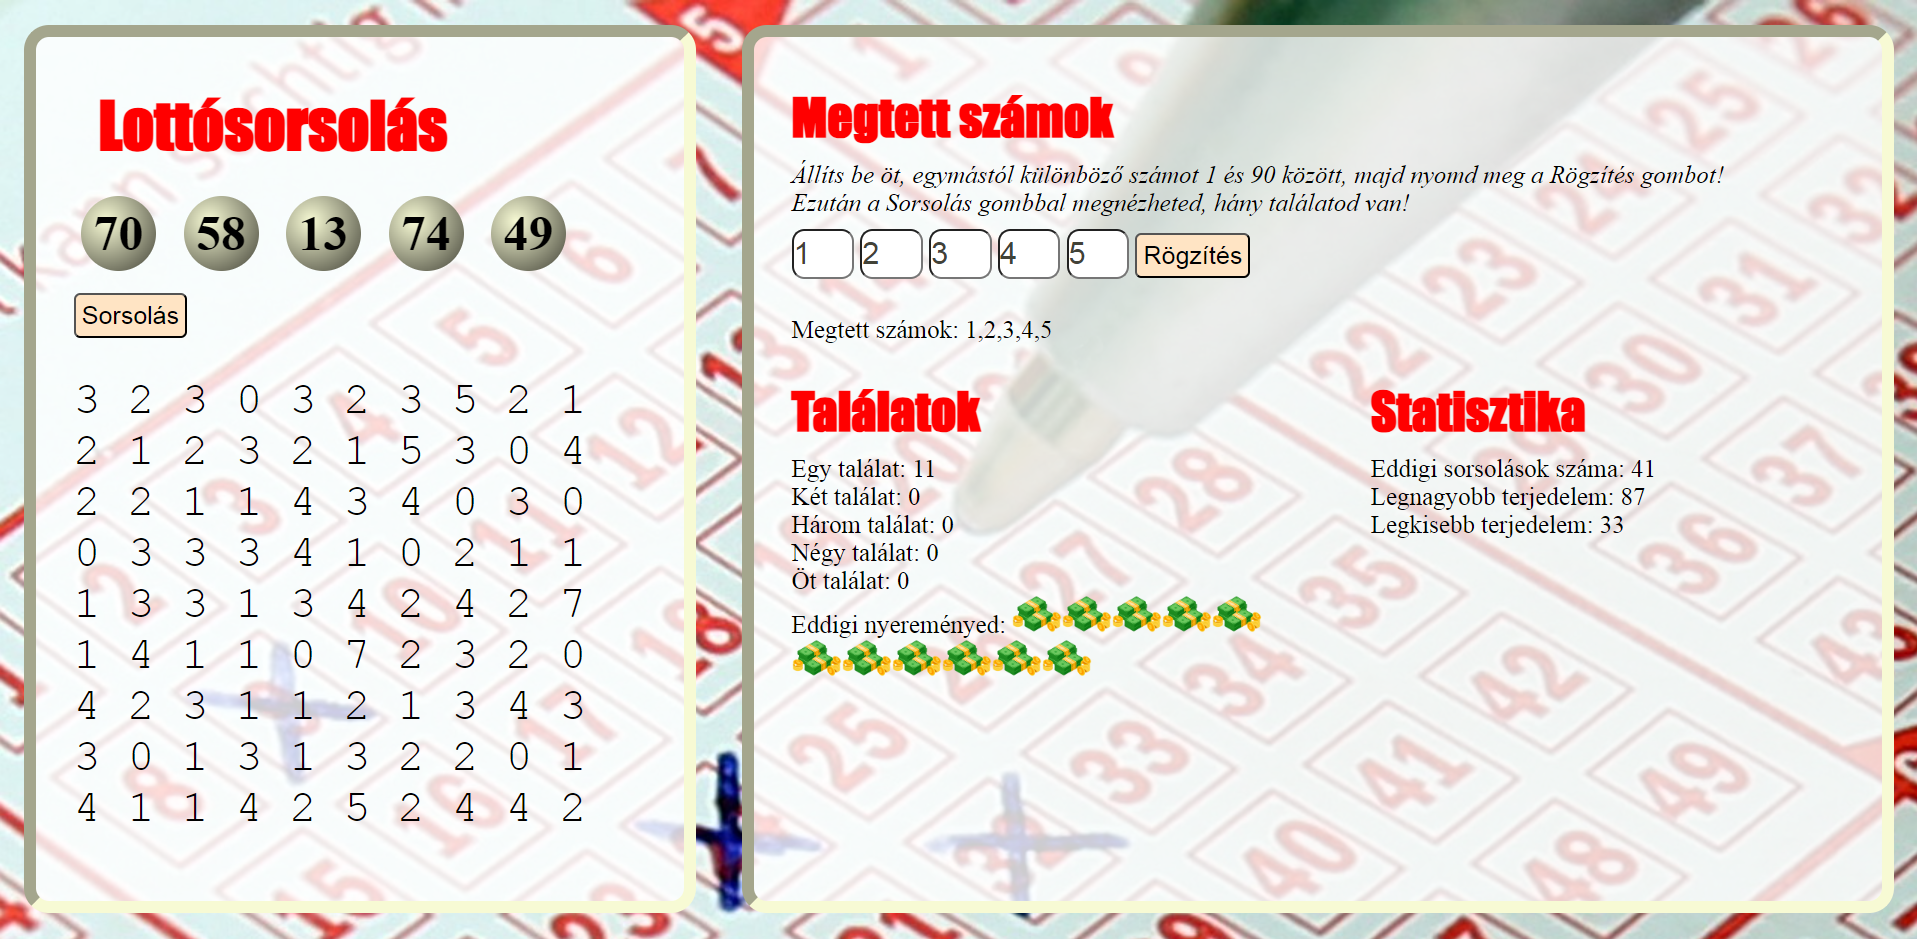
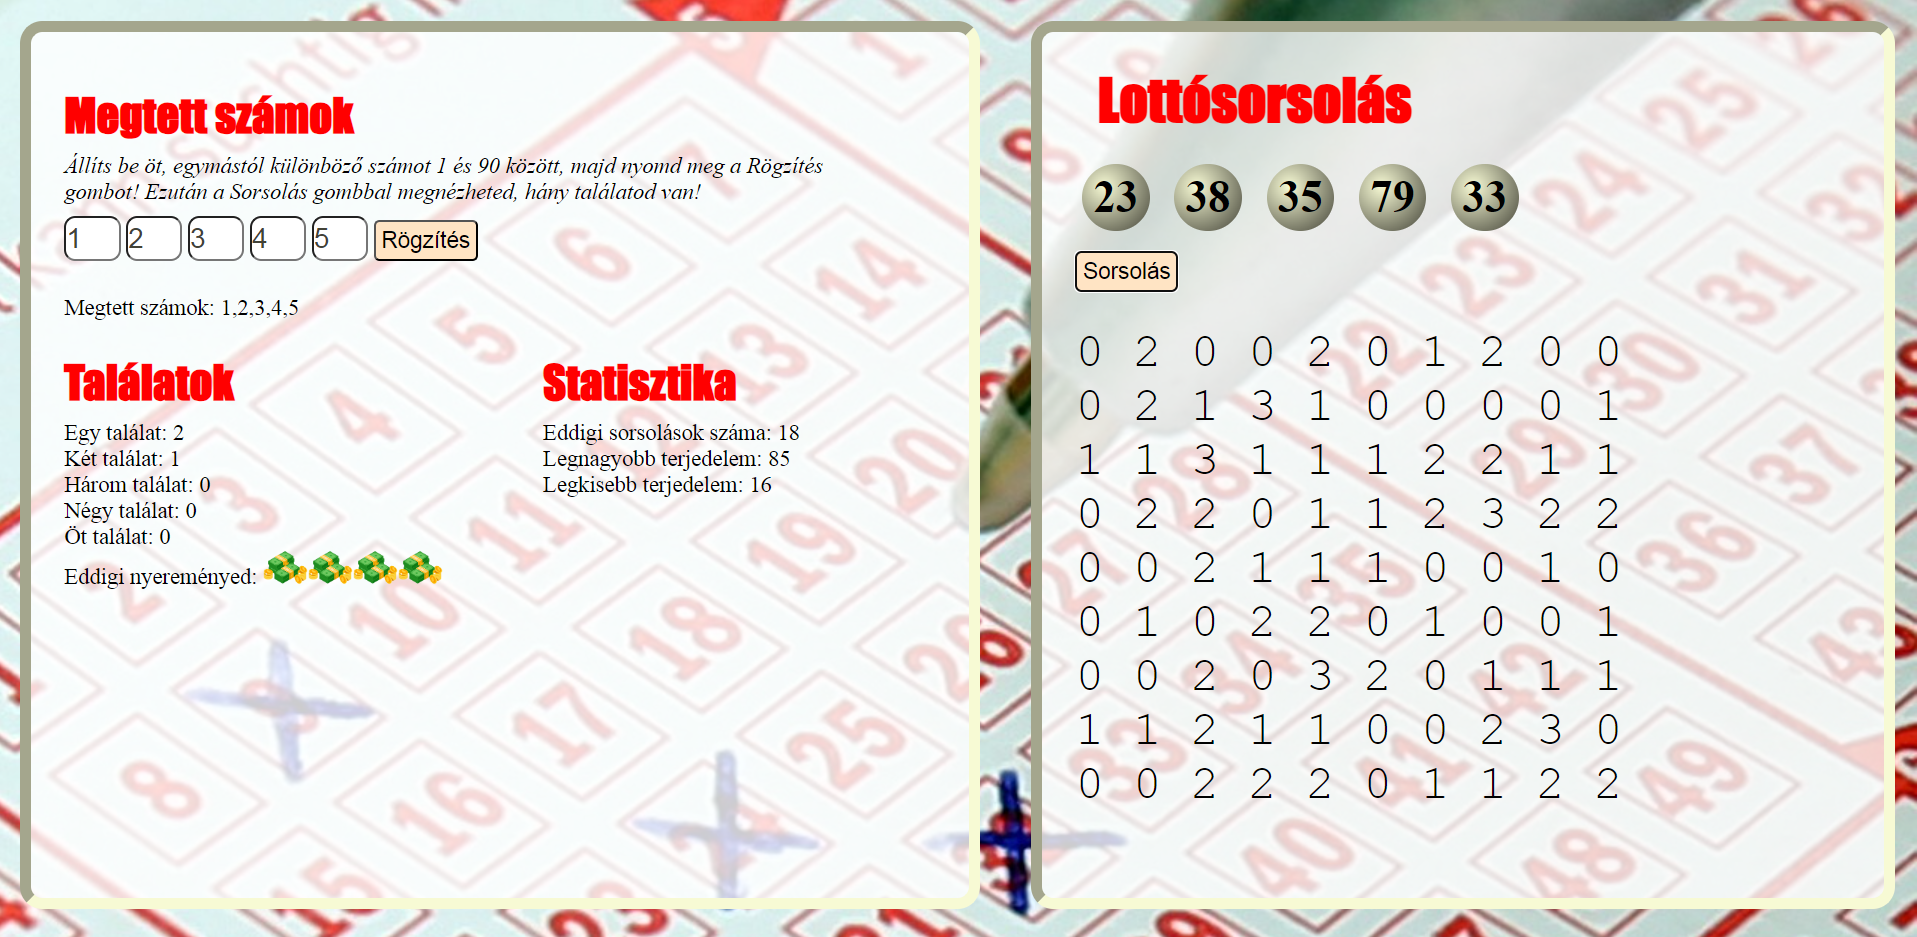
jav2

diff --git a/lottosorsolas.html b/lottosorsolas.html
@@ -14,52 +14,53 @@
             box-sizing: border-box;
         }
 
-        body{
+        body {
             background-image: url(images/lotto-gbcbe279d6_1280.jpg);
-            background-size:cover;
+            background-size: cover;
         }
 
         #balhasab {
-            background-color: rgba(255,255,255,0.8);
-            border-radius:20px;
-            border:10px inset #f7fad4;
-            height:710px;
-            padding:20px 30px;
+            background-color: rgba(255, 255, 255, 0.8);
+            border-radius: 20px;
+            border: 10px inset #f7fad4;
+            height: 790px;
+            padding: 20px 30px;
             float: left;
-            width: 35%;
-            font-size: 40px;
-            font-weight: bold;
+            width: 50%;
+            font-size: 20px;
             margin: 20px 0 10px 20px;
         }
 
         #jobbhasab {
-            background-color:rgba(255,255,255,0.8);
-            border-radius:20px;
-            border:10px inset #f7fad4;
-            height:710px;
+            background-color: rgba(255, 255, 255, 0.8);
+            border-radius: 20px;
+            border: 10px inset #f7fad4;
+            height: 790px;
             float: right;
-            width: 60%;
-            font-size: 20px;
-            padding:10px 30px 20px 30px;
+            width: 45%;
+            font-size: 40px;
+            font-weight: bold;
+            padding: 10px 30px 20px 30px;
             margin: 20px 20px 10px 0px;
         }
 
-        #talalat{
-            float:left;
-            width:45%;
+        #talalat {
+            float: left;
+            width: 45%;
         }
-        #statisztika{
-            float:right;
-            width:45%;
+
+        #statisztika {
+            float: right;
+            width: 45%;
         }
 
         .circle {
-            display:inline-block;
+            display: inline-block;
             border-radius: 50%;
             height: 60px;
             width: 60px;
-            padding:7px 10px 5px 10px;
-            margin:6px;
+            padding: 7px 10px 5px 10px;
+            margin: 6px;
             text-align: center;
             background-image: radial-gradient(circle at 20px 20px, #f7fad4, #424237);
         }
@@ -113,46 +114,64 @@
             width: 40px;
         }
 
-        @media (max-width: 1280px) {
-            #eddigiszamok{
-                font-size:2.2vw;
-            }
-        }
+
         @media (max-width: 1100px) {
-            h1{
-                font-size:40px;
+            h1 {
+                font-size: 40px;
             }
-            h2{
-                font-size:30px;
+
+            h2 {
+                font-size: 30px;
             }
-            #balhasab,#jobbhasab{
-                font-size:16px;
+
+            #balhasab,
+            #jobbhasab {
+                font-size: 16px;
+            }
+
+            .circle {
+                font-size: 40px;
+            }
+
+            #nyeremeny img {
+                width: 30px;
             }
         }
-        @media (max-width: 930px) {
-            #balhasab,#jobbhasab{
-                float:none;
-                width:100%;
+
+        @media (max-width: 1030px) {
+
+            #balhasab,
+            #jobbhasab {
+                float: none;
+                width: 95%;
+                margin: 20px auto;
+                padding: 0 20px;
             }
+
+            #balhasab {
+                height: 640px;
+            }
+
+            #jobbhasab {
+                height: 520px;
+            }
+
+            #eddigiszamok {
+                font-size: 19px;
+            }
+
+            button {
+                margin-bottom: 15px;
+            }
+
         }
     </style>
 </head>
 
 <body>
-    <div id="balhasab">
-        <h1>Lottósorsolás</h1>
-        <div id="szam0" class="circle"></div>
-        <div id="szam1" class="circle"></div>
-        <div id="szam2" class="circle"></div>
-        <div id="szam3" class="circle"></div>
-        <div id="szam4" class="circle"></div>
-        <div>
-            <button onclick="sorsolas()">Sorsolás</button>
-            <div id="eddigiszamok"></div>
-        </div>
-    </div>
 
-    <div id="jobbhasab">
+
+    <div id="balhasab">
         <h2>Megtett számok</h2>
         <p><i>Állíts be öt, egymástól különböző számot 1 és 90 között, majd nyomd meg a Rögzítés gombot! Ezután a
                 Sorsolás gombbal megnézheted, hány találatod van!</i></p>
@@ -177,6 +196,19 @@
             <div id="eddigisorsolasok">Eddigi sorsolások száma: 0</div>
             <div id="legnagyobbterj">Legnagyobb terjedelem: -</div>
             <div id="legkisebbterj">Legkisebb terjedelem: -</div>
+        </div>
+    </div>
+
+    <div id="jobbhasab">
+        <h1>Lottósorsolás</h1>
+        <div id="szam0" class="circle"></div>
+        <div id="szam1" class="circle"></div>
+        <div id="szam2" class="circle"></div>
+        <div id="szam3" class="circle"></div>
+        <div id="szam4" class="circle"></div>
+        <div>
+            <button onclick="sorsolas()">Sorsolás</button>
+            <div id="eddigiszamok"></div>
         </div>
     </div>
 

diff --git a/style.css b/style.css
@@ -360,7 +360,7 @@ footer {
 
     .tudasblokk {
         margin-bottom: 10px;
-        min-width:130px;
+        min-width:140px;
     }
     #tudas img {
         height: 19px;
